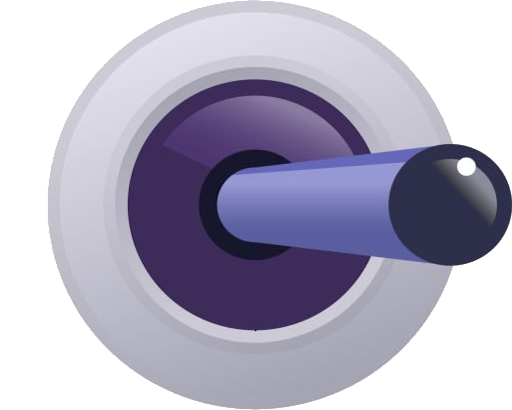
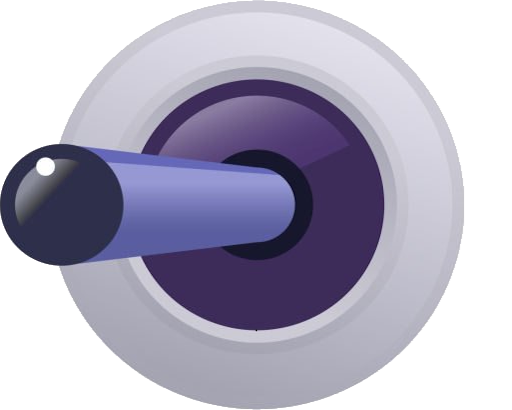
Changed the Toogle default position (set left to Right)

diff --git a/mdio.cpp b/mdio.cpp
@@ -127,7 +127,7 @@ void Mdio::addTsConfigBinaryGroupUi(void)
 
 void Mdio::addTsStatusBinaryGroupUi(void)
 {
-    tsPollingSwitcher = new Toogle(SwDefSettings::getMonitroTsNamePollBinary(), SwDefSettings::getMonitroTsNamePollRegister());
+    tsPollingSwitcher = new Toogle(SwDefSettings::getMonitroTsNamePollRegister(), SwDefSettings::getMonitroTsNamePollBinary());
     ui->vlTeleSignalStatus->addWidget(tsPollingSwitcher);
 
     for (uint32_t k = 0; k < TELESIGNAL_NUMBERS; k++) {
@@ -239,13 +239,13 @@ void Mdio::addToolTip()
     ui->cbStopBits->setToolTip("За умовчуванням " + SwDefSettings::getStopBitsDefaultStr());
     ui->lStopBits->setToolTip(ui->cbStopBits->toolTip());
 
-    tsPollingSwitcher->addToolTip("Зріз ТС без буфера по функції 3 ModBus,\n"
-                                  "початкова адреса даних 535, кількість регістрів - 1",
-                                  "Буферізований зріз ТС по функції 2 ModBus,\n"
-                                  "початкова адреса даних 506, кількість ТС - 4");
+    tsPollingSwitcher->addToolTip("Буферізований зріз ТС по функції 2 ModBus,\n"
+                                  "початкова адреса даних 506, кількість ТС - 4",
+                                  "Зріз ТС без буфера по функції 3 ModBus,\n"
+                                  "початкова адреса даних 535, кількість регістрів - 1");
 
-    tkControlSwitcher->addToolTip("Функція ModBus для ТК 6",
-                                  "Функція ModBus для ТК 5");
+    tkControlSwitcher->addToolTip("Функція ModBus для ТК 5",
+                                  "Функція ModBus для ТК 6");
 }
 
 void Mdio::initCustomUi()
@@ -282,7 +282,7 @@ void Mdio::initCustomUi()
                                       + "-"
                                       + SwDefSettings::getPulsDurationMaxString()
                                       + ")");
-    tkControlSwitcher = new Toogle(SwDefSettings::getMonitroTcNameFun6(), SwDefSettings::getMonitroTcNameFun5());
+    tkControlSwitcher = new Toogle(SwDefSettings::getMonitroTcNameFun5(), SwDefSettings::getMonitroTcNameFun6());
     ui->vlTcControlMonitorInternal->addWidget(tkControlSwitcher);
     for (uint32_t k = 0; k < TELECONTROL_TOTAL_NUMBERS; k++) {
         tcMonitorList.append(new TcControl("", k, this));
@@ -1018,7 +1018,7 @@ void Mdio::tcSetTcSlot(int index, bool enable)
     }
 
     processingCommunicatitonResult("Телекерування",
-                                   "Помилка передачі команди\nдля статичного телекерування", false);
+                                   "Помилка передачі команди\nтелекерування", false);
 }
 
 void Mdio::on_pbSetDefaultSettings_clicked()

diff --git a/toogle.cpp b/toogle.cpp
@@ -15,12 +15,8 @@ Toogle::Toogle(QString onLable, QString offLable, QWidget *parent)
 {
     ui->setupUi(this);
 
-    ui->lToogleOn->setText(onLable);
-    ui->lToogleOff->setText(offLable);
-
-    /*
-     * Name
-     */
+    ui->lToogleOff->setText(onLable);
+    ui->lToogleOn->setText(offLable);
 
     ui->pbToogle->setCheckable(true);
     ui->pbToogle->setChecked(false);
@@ -29,11 +25,11 @@ Toogle::Toogle(QString onLable, QString offLable, QWidget *parent)
     ui->pbToogle->setMinimumSize(DEFINE_SWITCHER_SIZE, DEFINE_SWITCHER_SIZE);
     ui->pbToogle->setMaximumSize(ui->pbToogle->minimumSize());
 
-    ui->lToogleOn->setMinimumSize(DEFINE_TEXT_WIDTH, DEFINE_TEXT_HEIGHT);
-    ui->lToogleOn->setMaximumSize(ui->lToogleOn->minimumSize());
-
     ui->lToogleOff->setMinimumSize(DEFINE_TEXT_WIDTH, DEFINE_TEXT_HEIGHT);
     ui->lToogleOff->setMaximumSize(ui->lToogleOff->minimumSize());
+
+    ui->lToogleOn->setMinimumSize(DEFINE_TEXT_WIDTH, DEFINE_TEXT_HEIGHT);
+    ui->lToogleOn->setMaximumSize(ui->lToogleOn->minimumSize());
 }
 
 Toogle::~Toogle()
@@ -43,25 +39,25 @@ Toogle::~Toogle()
 
 void Toogle::addToolTip(QString onToolTip, QString offTooTip)
 {
-    ui->lToogleOn->setToolTip(onToolTip);
-    ui->lToogleOff->setToolTip(offTooTip);
+    ui->lToogleOff->setToolTip(onToolTip);
+    ui->lToogleOn->setToolTip(offTooTip);
 }
 
 Toogle::ToogleState Toogle::getState(void)
 {
     return ui->pbToogle->isChecked()
         ? Toogle::TOOGLE_STATE_ON
-               : Toogle::TOOGLE_STATE_OFF;
+        : Toogle::TOOGLE_STATE_OFF;
 }
 
 void Toogle::mousePressEvent(QMouseEvent *event)
 {
     QWidget *child = childAt(event->pos());
     if (event->type() == QInputEvent::MouseButtonPress) {
-        if (child == (QWidget *)ui->lToogleOn) {
-            ui->pbToogle->setChecked(true);
-        } else if (child == (QWidget *)ui->lToogleOff) {
+        if (child == (QWidget *)ui->lToogleOff) {
             ui->pbToogle->setChecked(false);
+        } else if (child == (QWidget *)ui->lToogleOn) {
+            ui->pbToogle->setChecked(true);
         }
     }
 }
@@ -69,17 +65,17 @@ void Toogle::mousePressEvent(QMouseEvent *event)
 void Toogle::on_pbToogle_toggled(bool checked)
 {
     if (checked) {
-        ui->lToogleOn->setProperty("ToogleState", "On");
         ui->lToogleOff->setProperty("ToogleState", "Disable");
+        ui->lToogleOn->setProperty("ToogleState", "On");
     } else {
-        ui->lToogleOn->setProperty("ToogleState", "Disable");
         ui->lToogleOff->setProperty("ToogleState", "Off");
+        ui->lToogleOn->setProperty("ToogleState", "Disable");
     }
-
-    ui->lToogleOn->style()->unpolish(ui->lToogleOn);
-    ui->lToogleOn->style()->polish(ui->lToogleOn);
 
     ui->lToogleOff->style()->unpolish(ui->lToogleOff);
     ui->lToogleOff->style()->polish(ui->lToogleOff);
+
+    ui->lToogleOn->style()->unpolish(ui->lToogleOn);
+    ui->lToogleOn->style()->polish(ui->lToogleOn);
 }
 

diff --git a/Version.h b/Version.h
@@ -3,7 +3,7 @@
 
 #define VERSION_MAJOR    0
 #define VERSION_MINOR    3
-#define VERSION_BUILD    94
+#define VERSION_BUILD    97
 
 #define DEF_TO_STR_(X)    #X
 #define DEF_TO_STR(X)     DEF_TO_STR_(X)

diff --git a/mdio.h b/mdio.h
@@ -109,8 +109,6 @@ private slots:
 
     void tcSetTcSlot(int index, bool enable);
 
-private slots:
-
     void on_pbConnectionSettings_clicked();
 
     void on_pbApplySettings_clicked();

diff --git a/toogle.h b/toogle.h
@@ -26,7 +26,6 @@ public:
     void addToolTip(QString onToolTip, QString offTooTip);
 
 private slots:
-
     void on_pbToogle_toggled(bool checked);
 
 private:
